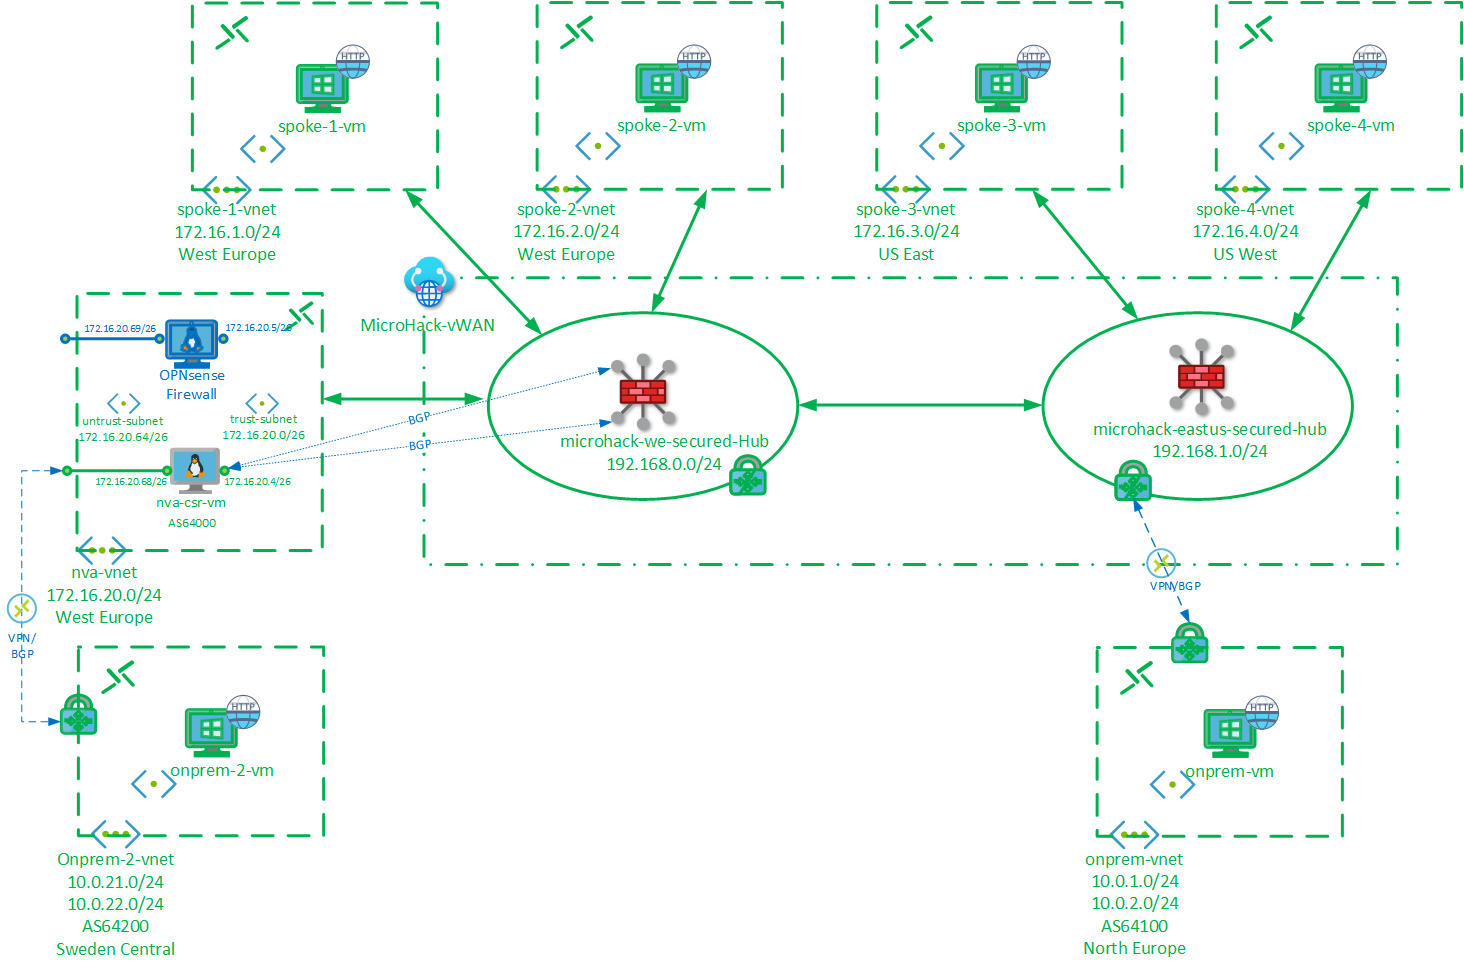
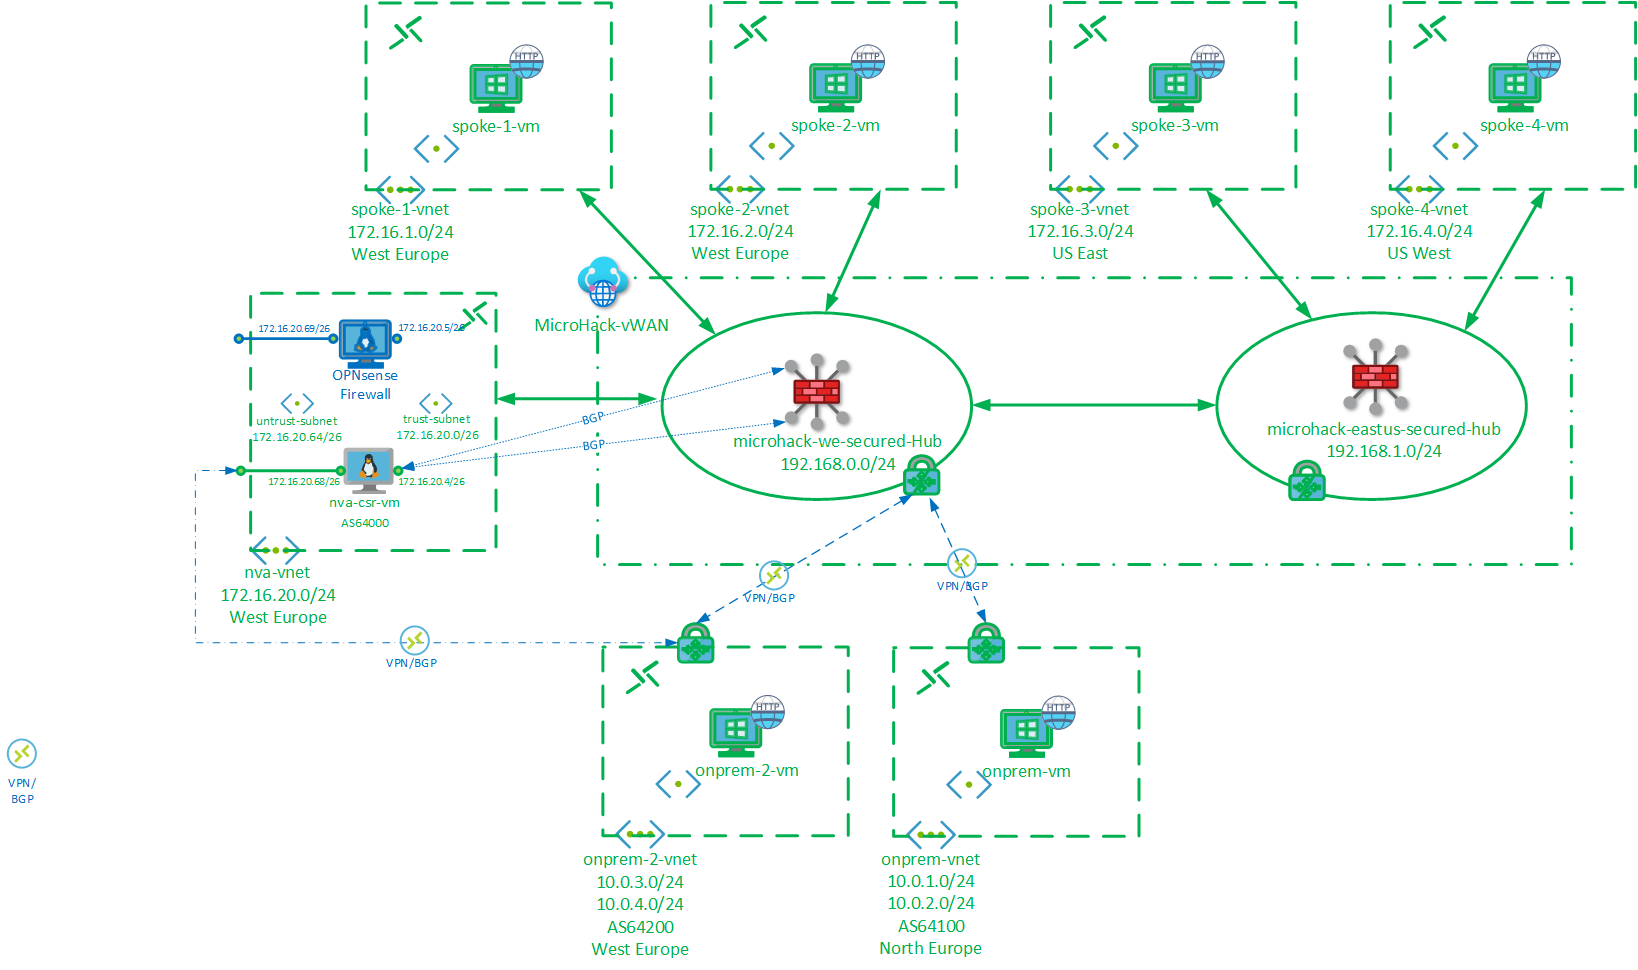
updates

diff --git a/README.md b/README.md
@@ -144,7 +144,7 @@ Now navigate back to the West Europe Hub and click Effective Routes. Under Choos
 
 Inspect the route table, observe routes for directly connected and cross-hub spoke routes,
 
-## Task 3: Secure Branch traffic
+## Task 3: Secure Branch-to-Branch traffic
 Connect simulated Branch locations `onprem` and `onprem-2` by running these shell scripts from the `./azure-vwan-security-microhack/templates` directory in Cloud Shell:
 
 `./connect-branch.sh`
@@ -153,9 +153,23 @@ Connect simulated Branch locations `onprem` and `onprem-2` by running these shel
 
 The scripts create VPN sites on the West Europe hub, and connect to the VNET Gateways in onprem-vnet and onprem2-vnet.
 
+Connect to onprem-vm via Bastion, open a command prompt and attempt to connect to the web server on onprem2-vm at 10.0.3.4:
 
+`curl 10.0.3.4`
 
+:question: Does it connect?
 
+Simulated Branch locations onprem-vnet and onprem2-vnet are connected to the VPN Gateway on the West Europe hub.
+
+:question: Can you deduce where the connection from onprem-vm to onprem2-vm is blocked from the error message displayed?
+
+Before the Routing Intent update, traffic between Branch S2S VPN connections on the same gateway, would loop directly through the gateway and would not be inspected by the firewall in the Hub. 
+
+:point_right: Post-RI, traffic from S2S and P2S VPN connections is forwarded from the gateway to the firewall, allowing Branch-to-Branch connectivity to be controlled centrally on the Hub firewall.
+
+![image](images/b2b-via-fw.png)
+
+Navigate to Firewall Policies and update network rules in `microhack-fw-we-child-policy` to permit connectity from onprem-vnet to onprem2-vnet and v.v. 
 
 # Scenario 2: Secure Internet Traffic
 
